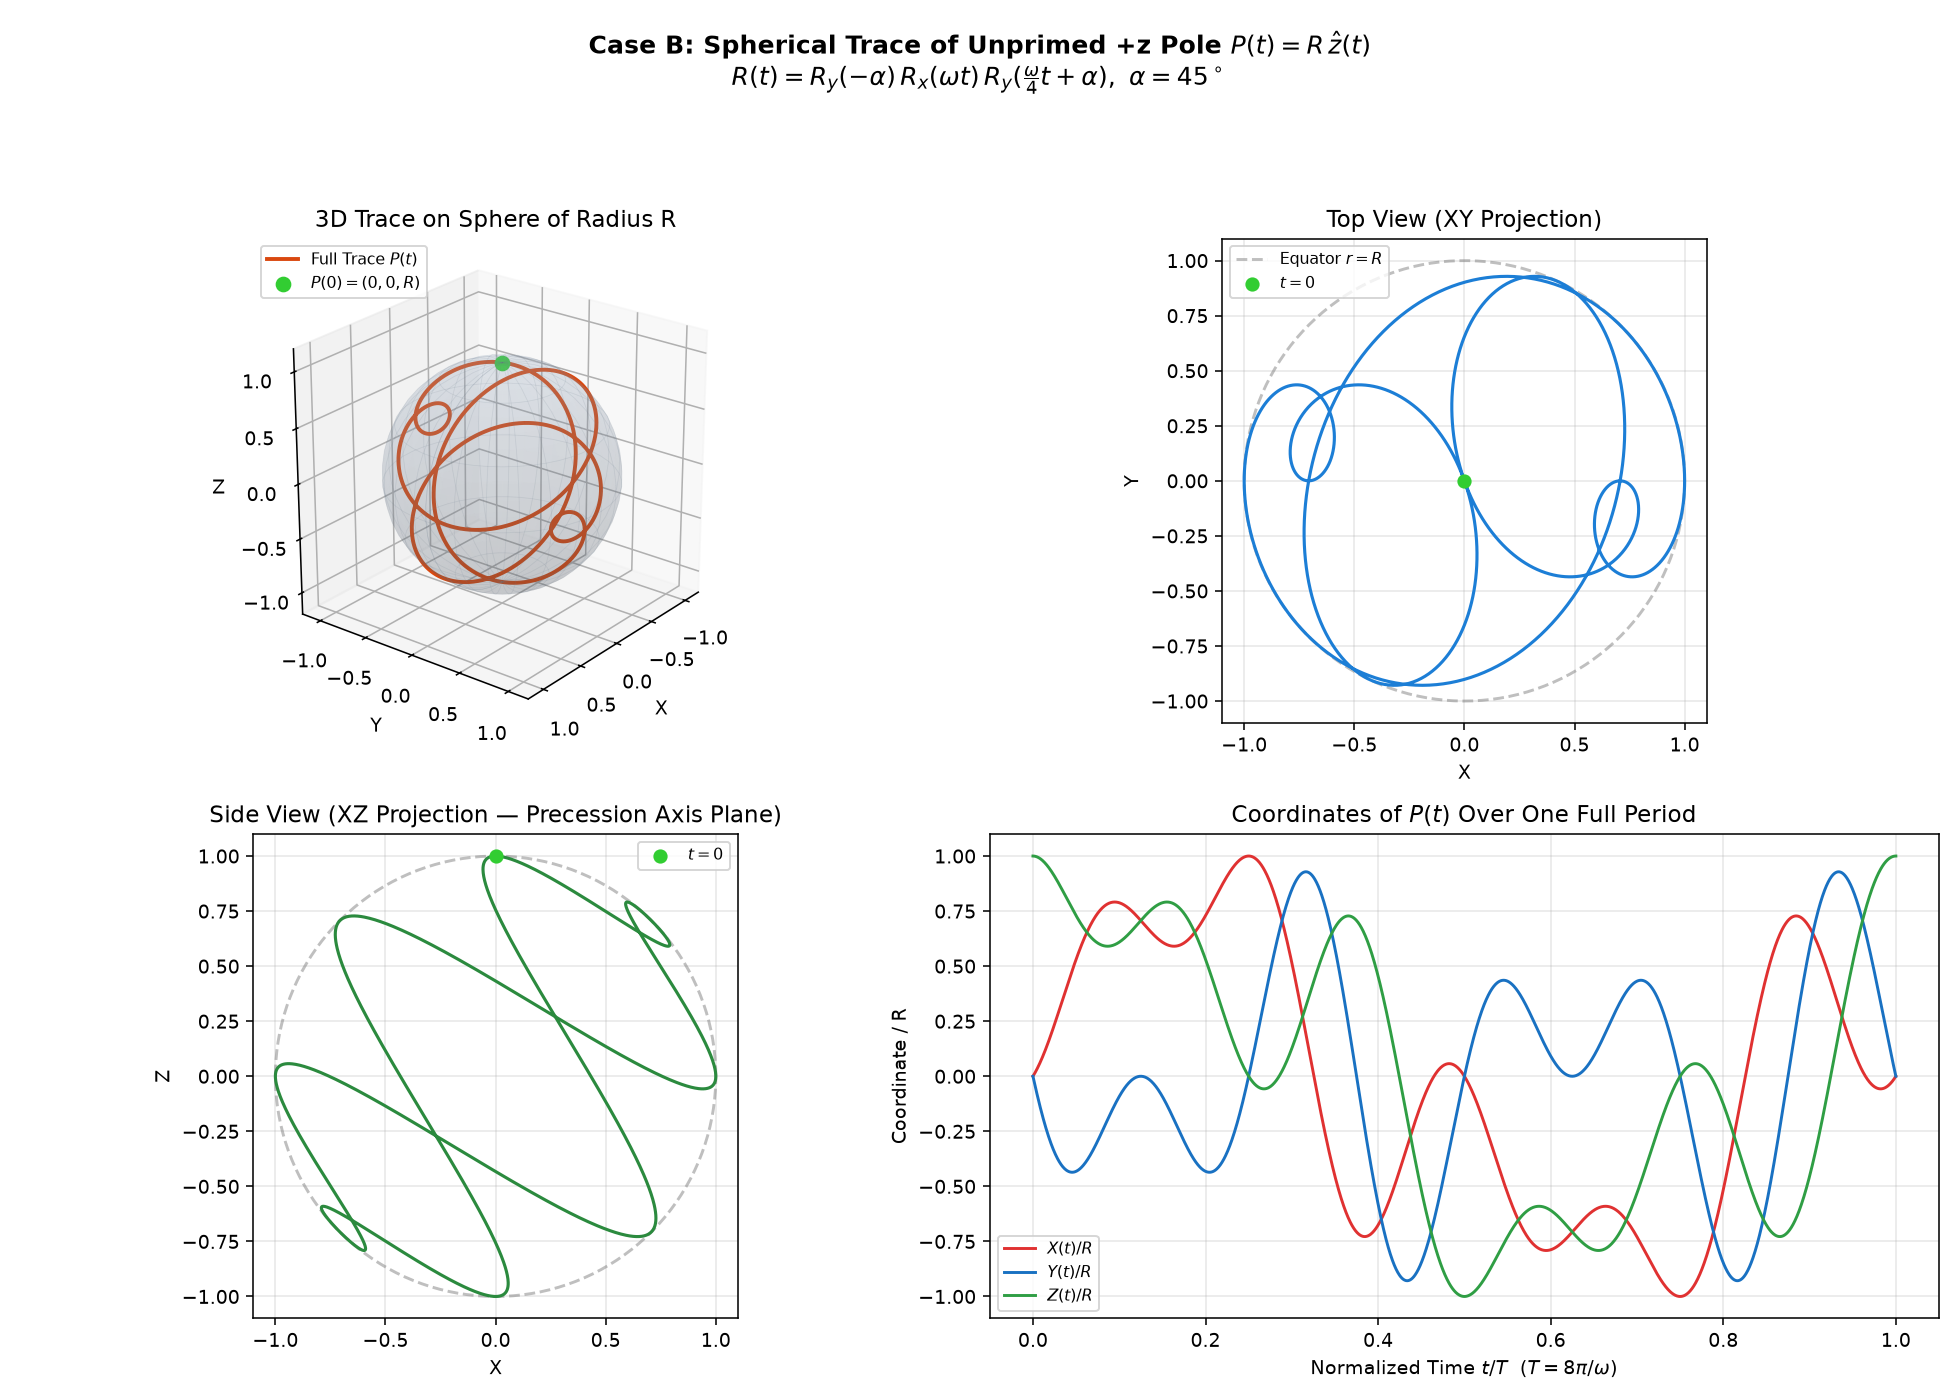
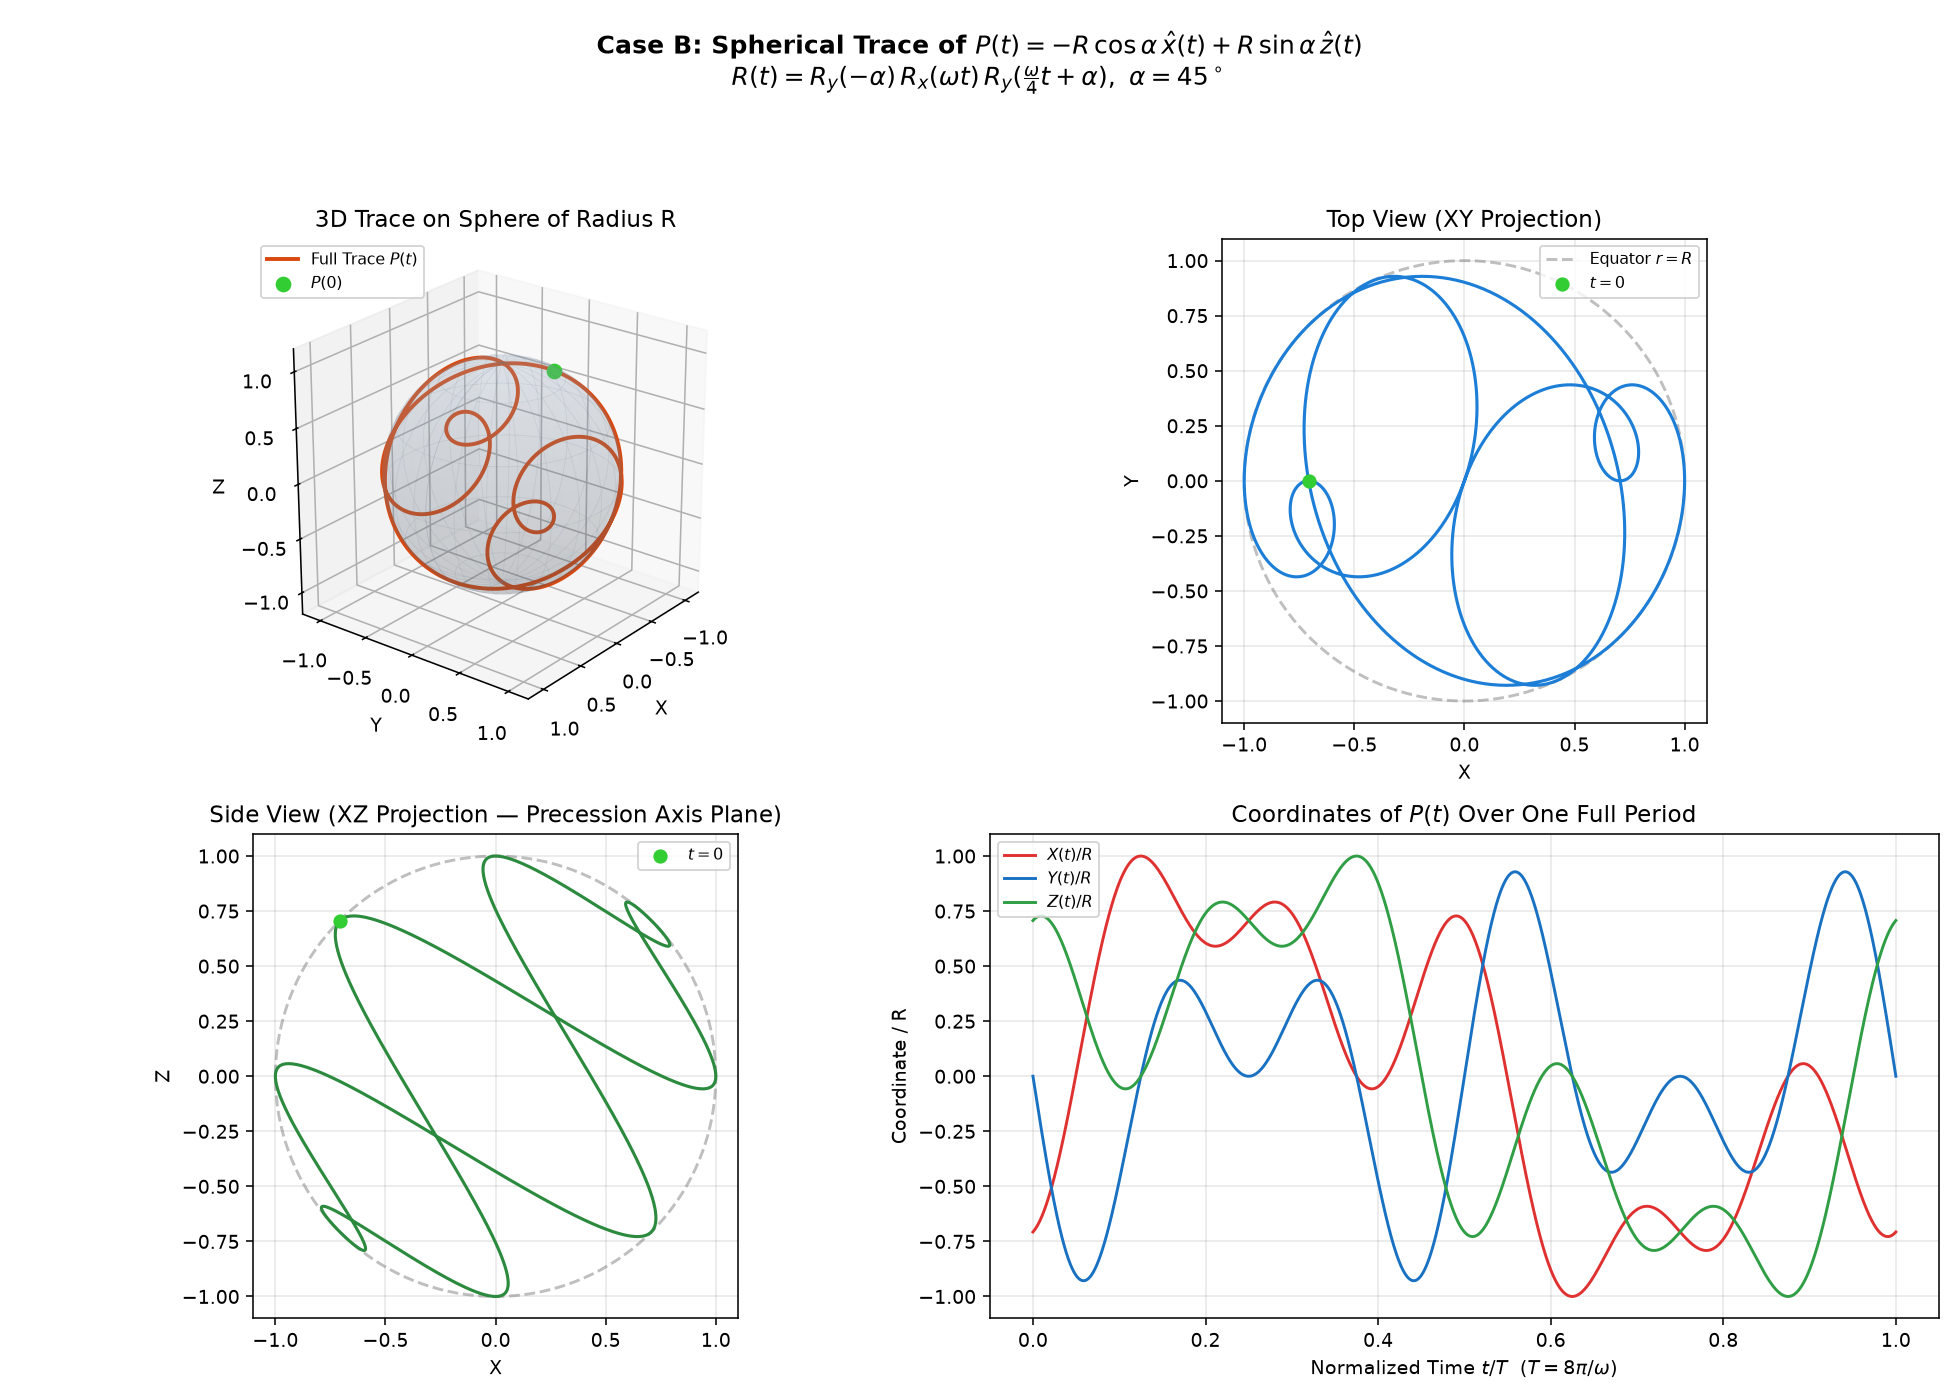
period

diff --git a/case_b_interactive.html b/case_b_interactive.html
@@ -172,7 +172,7 @@
       <label class="legend-item">
         <input type="checkbox" id="showTrace" checked />
         <span class="swatch" style="background:#f97316"></span>
-        <span>+z Pole Trace P(t) = R ẑ(t)</span>
+        <span>Trace P(t) = -R cosα x̂ + R sinα ẑ</span>
       </label>
       <label class="legend-item">
         <input type="checkbox" id="showUnprimed" checked />
@@ -198,11 +198,12 @@
 
     <div class="math-box">
       <strong>Case B Equations:</strong><br/>
+      P(t) = -R cosα x̂(t) + R sinα ẑ(t)<br/>
       R(t) = R_y(-α) R_x(ωt) R_y(ωt/4 + α)<br/>
-      u = ωt/4 + α<br/>
-      X = R [cosα sin(u) - sinα cos(u) cos(ωt)]<br/>
-      Y = -R sin(ωt) cos(u)<br/>
-      Z = R [sinα sin(u) + cosα cos(u) cos(ωt)]
+      For α = 45°:<br/>
+      X = (√2/2)R [sin(ωt/4) - cos(ωt/4)cos(ωt)]<br/>
+      Y = -R sin(ωt) cos(ωt/4)<br/>
+      Z = (√2/2)R [sin(ωt/4) + cos(ωt/4)cos(ωt)]
     </div>
   </aside>
 
@@ -277,6 +278,15 @@
     }
     function colVec(M, j) {
       return [M[0][j], M[1][j], M[2][j]];
+    }
+    function pointP(M, alpha) {
+      const ca = Math.cos(alpha), sa = Math.sin(alpha);
+      const xh = colVec(M, 0), zh = colVec(M, 2);
+      return [
+        -ca * xh[0] + sa * zh[0],
+        -ca * xh[1] + sa * zh[1],
+        -ca * xh[2] + sa * zh[2]
+      ];
     }
     function project(pt) {
       const ca = Math.cos(camAzim), sa = Math.sin(camAzim);
@@ -419,7 +429,7 @@
         for (let i = 0; i <= N; i++) {
           const ti = (i / N) * T;
           const M = caseBMatrix(ti, omega, alpha);
-          fullPts.push(colVec(M, 2));
+          fullPts.push(pointP(M, alpha));
         }
         drawPolyline3D(fullPts, 'rgba(249, 115, 22, 0.24)', 1.5, [3, 3]);
 
@@ -428,7 +438,7 @@
         for (let i = 0; i <= steps; i++) {
           const ti = (i / N) * T;
           const M = caseBMatrix(ti, omega, alpha);
-          histPts.push(colVec(M, 2));
+          histPts.push(pointP(M, alpha));
         }
         drawPolyline3D(histPts, '#f97316', 3.0);
       }
@@ -457,15 +467,16 @@
         drawPoint3D(p2, '#facc15', 5);
       }
 
-      // Draw +z pole vector & point
-      drawPolyline3D([[0,0,0], zHat], '#ef4444', 2.4);
-      drawPoint3D(zHat, '#ef4444', 7);
+      // Draw P(t) vector & point
+      const pNow = pointP(Rmat, alpha);
+      drawPolyline3D([[0,0,0], pNow], '#ef4444', 2.4);
+      drawPoint3D(pNow, '#ef4444', 7);
 
       // Update live stats
-      document.getElementById('xVal').textContent = zHat[0].toFixed(3);
-      document.getElementById('yVal').textContent = zHat[1].toFixed(3);
-      document.getElementById('zVal').textContent = zHat[2].toFixed(3);
-      const norm = Math.hypot(zHat[0], zHat[1], zHat[2]);
+      document.getElementById('xVal').textContent = pNow[0].toFixed(3);
+      document.getElementById('yVal').textContent = pNow[1].toFixed(3);
+      document.getElementById('zVal').textContent = pNow[2].toFixed(3);
+      const norm = Math.hypot(pNow[0], pNow[1], pNow[2]);
       document.getElementById('normVal').textContent = norm.toFixed(3);
       const dot = xHat[0]*xpHat[0] + xHat[1]*xpHat[1] + xHat[2]*xpHat[2];
       const ang = (Math.acos(Math.max(-1, Math.min(1, dot))) * 180) / Math.PI;

diff --git a/animate_case_b.py b/animate_case_b.py
@@ -33,15 +33,21 @@ def case_b_rotation_matrix(t: float, omega: float = 1.0, alpha: float = np.pi / 
 
 def case_b_trace_explicit(t: np.ndarray, R: float = 1.0, omega: float = 1.0, alpha: float = np.pi / 4) -> np.ndarray:
     """
-    Closed-form trajectory of the unprimed +z pole P(t) = R * z_hat(t) for Case B:
-        X(t) = (sqrt(2)/2) R [ sin(omega*t/4 + pi/4) - cos(omega*t/4 + pi/4) cos(omega*t) ]
-        Y(t) = -R sin(omega*t) cos(omega*t/4 + pi/4)
-        Z(t) = (sqrt(2)/2) R [ sin(omega*t/4 + pi/4) + cos(omega*t/4 + pi/4) cos(omega*t) ]
+    Closed-form trajectory of P(t) = -R * cos(alpha) * x_hat(t) + R * sin(alpha) * z_hat(t) for Case B:
+      General alpha:
+        u2 = (omega / 4) * t + 2 * alpha
+        X(t) = R * [ -cos(alpha) * cos(u2) - sin(alpha) * cos(omega*t) * sin(u2) ]
+        Y(t) = -R * sin(omega*t) * sin(u2)
+        Z(t) = R * [ -sin(alpha) * cos(u2) + cos(alpha) * cos(omega*t) * sin(u2) ]
+      For alpha = pi/4 (2*alpha = pi/2):
+        X(t) = (sqrt(2)/2) R [ sin(omega*t/4) - cos(omega*t/4) cos(omega*t) ]
+        Y(t) = -R sin(omega*t) cos(omega*t/4)
+        Z(t) = (sqrt(2)/2) R [ sin(omega*t/4) + cos(omega*t/4) cos(omega*t) ]
     """
-    u = 0.25 * omega * t + alpha
-    X = R * (np.cos(alpha) * np.sin(u) - np.sin(alpha) * np.cos(u) * np.cos(omega * t))
-    Y = -R * np.sin(omega * t) * np.cos(u)
-    Z = R * (np.sin(alpha) * np.sin(u) + np.cos(alpha) * np.cos(u) * np.cos(omega * t))
+    u2 = 0.25 * omega * t + 2.0 * alpha
+    X = R * (-np.cos(alpha) * np.cos(u2) - np.sin(alpha) * np.cos(omega * t) * np.sin(u2))
+    Y = -R * np.sin(omega * t) * np.sin(u2)
+    Z = R * (-np.sin(alpha) * np.cos(u2) + np.cos(alpha) * np.cos(omega * t) * np.sin(u2))
     return np.vstack([X, Y, Z])
 
 
@@ -51,7 +57,7 @@ def generate_overview_figure(R: float = 1.0, omega: float = 1.0, alpha: float = 
     P = case_b_trace_explicit(t_dense, R=R, omega=omega, alpha=alpha)
 
     fig = plt.figure(figsize=(14, 10), dpi=140)
-    fig.suptitle("Case B: Spherical Trace of Unprimed +z Pole $P(t) = R\\,\\hat{z}(t)$\n"
+    fig.suptitle("Case B: Spherical Trace of $P(t) = -R\\,\\cos\\alpha\\,\\hat{x}(t) + R\\,\\sin\\alpha\\,\\hat{z}(t)$\n"
                  "$R(t) = R_y(-\\alpha)\\,R_x(\\omega t)\\,R_y(\\frac{\\omega}{4}t + \\alpha),\\ \\alpha = 45^\\circ$",
                  fontsize=13, fontweight="bold")
 
@@ -66,7 +72,7 @@ def generate_overview_figure(R: float = 1.0, omega: float = 1.0, alpha: float = 
     ax3d.plot_wireframe(xs, ys, zs, color="slategray", alpha=0.15, linewidth=0.4, rstride=2, cstride=4)
 
     ax3d.plot(P[0], P[1], P[2], color="#d9480f", linewidth=2.0, label="Full Trace $P(t)$")
-    ax3d.scatter([P[0, 0]], [P[1, 0]], [P[2, 0]], color="limegreen", s=50, zorder=5, label="$P(0) = (0,0,R)$")
+    ax3d.scatter([P[0, 0]], [P[1, 0]], [P[2, 0]], color="limegreen", s=50, zorder=5, label="$P(0)$")
 
     ax3d.set_xlim([-1.2 * R, 1.2 * R])
     ax3d.set_ylim([-1.2 * R, 1.2 * R])
@@ -169,8 +175,8 @@ def create_animation(
     normal_unprimed_line, = ax.plot([], [], [], color="#1c7ed6", linewidth=1.6, alpha=0.85, label="Unprimed Normal $\\hat{x}(t)$")
     normal_primed_line, = ax.plot([], [], [], color="#2b8a3e", linewidth=1.6, alpha=0.85, label="Primed Normal $\\hat{x}'(t)$")
 
-    trace_line, = ax.plot([], [], [], color="#d9480f", linewidth=2.6, label="Trace of $+z$ Pole $P(t)$")
-    pole_pt, = ax.plot([], [], [], "o", color="#e03131", markersize=8, label="Unprimed $+z$ Pole $P(t)$")
+    trace_line, = ax.plot([], [], [], color="#d9480f", linewidth=2.6, label="Trace of $P(t)$")
+    pole_pt, = ax.plot([], [], [], "o", color="#e03131", markersize=8, label="$P(t) = -R\\cos\\alpha\\,\\hat{x}+R\\sin\\alpha\\,\\hat{z}$")
     pole_vec, = ax.plot([], [], [], color="#e03131", linewidth=1.8)
 
     title_text = ax.set_title("", fontsize=11, fontweight="bold", pad=12)
@@ -231,8 +237,8 @@ def create_animation(
         normal_primed_line.set_data(n_p[0], n_p[1])
         normal_primed_line.set_3d_properties(n_p[2])
 
-        # 6. Pole P(t) = R * z_hat and trace up to current time t
-        P_now = R * z_hat
+        # 6. Point P(t) = -R * cos(alpha) * x_hat + R * sin(alpha) * z_hat and trace up to current time t
+        P_now = R * (-np.cos(alpha) * x_hat + np.sin(alpha) * z_hat)
         pole_pt.set_data([P_now[0]], [P_now[1]])
         pole_pt.set_3d_properties([P_now[2]])
 
@@ -247,7 +253,7 @@ def create_animation(
 
         angle_deg = np.degrees(np.arccos(np.clip(np.dot(x_hat, xp_hat), -1.0, 1.0)))
         title_text.set_text(
-            f"Case B Spherical Trace of Unprimed +z Pole  |  t/T = {t/T:.2f}  |  "
+            f"Case B Spherical Trace of P(t)  |  t/T = {t/T:.2f}  |  "
             f"Inter-plane Angle = {angle_deg:.1f}°"
         )
         return (
@@ -290,11 +296,13 @@ if __name__ == "__main__":
     if not args.show:
         matplotlib.use("Agg")
 
-    # Verify numerical consistency between matrix product R(t)e_z and explicit equations
+    # Verify numerical consistency between matrix product R(t)p_0 and explicit equations
+    alpha_default = np.pi / 4
+    p0_body = np.array([-np.cos(alpha_default), 0.0, np.sin(alpha_default)])
     t_test = np.linspace(0, 8 * np.pi / args.omega, 50)
     for ti in t_test:
-        p_mat = args.R * (case_b_rotation_matrix(ti, omega=args.omega) @ np.array([0.0, 0.0, 1.0]))
-        p_exp = case_b_trace_explicit(ti, R=args.R, omega=args.omega).ravel()
+        p_mat = args.R * (case_b_rotation_matrix(ti, omega=args.omega, alpha=alpha_default) @ p0_body)
+        p_exp = case_b_trace_explicit(ti, R=args.R, omega=args.omega, alpha=alpha_default).ravel()
         assert np.allclose(p_mat, p_exp, atol=1e-12), f"Mismatch at t={ti}: {p_mat} vs {p_exp}"
 
     generate_overview_figure(R=args.R, omega=args.omega, out_path=args.overview)

diff --git a/argon.md b/argon.md
@@ -2,8 +2,8 @@
 Let $\{\hat{E}_x, \hat{E}_y, \hat{E}_z\}$ be the fixed inertial (lab) basis, $\{\hat{x}(t), \hat{y}(t), \hat{z}(t)\}$ be the rotating unprimed orthonormal basis, and $\{\hat{x}'(t), \hat{y}'(t), \hat{z}'(t)\}$ be the rotating primed orthonormal basis, all sharing the origin $O$.
 1. Unprimed circle (lies in the unprimed $yz$-plane, normal $\hat{x}(t)$):
 $$\mathbf{r}(\phi, t) = R\cos\phi\,\hat{y}(t) + R\sin\phi\,\hat{z}(t)$$
-The point to be traced on the sphere of radius $R$ is the $+z$ pole ($\phi = \frac{\pi}{2}$):
-$$\mathbf{P}(t) = R\,\hat{z}(t)$$
+The point to be traced on the sphere of radius $R$ is:
+$$\mathbf{P}(t) = -R\cos\alpha\,\hat{\mathbf{x}}(t) + R\sin\alpha\,\hat{\mathbf{z}}(t)$$
 2. Primed circle (lies in the primed $y'z'$-plane, normal $\hat{x}'(t)$):
 $$\mathbf{r}'(\phi', t) = R\cos\phi'\,\hat{y}'(t) + R\sin\phi'\,\hat{z}'(t)$$
 3. The $z = 0$ Dynamic Plane and Line of Intersection:
@@ -48,12 +48,19 @@ This traces a closed, 4-lobed spherical curve (periodic with period $T = \frac{8
 Case B: Reversed Hierarchy (Unprimed rotation carries the $z=0$ intersection axis $\hat{y}(t)$)
 If instead the unprimed rotation at rate $\omega$ about $\hat{x}'$ carries the intersection vector $\hat{y}(t)$ around $\hat{x}'$, and the $\frac{\omega}{4}$ rotation acts about that moving intersection vector $\hat{y}(t)$:
 $$R(t) = R_y(-\alpha)\, R_x(\omega t)\, R_y\!\left(\frac{\omega}{4}t + \alpha\right)$$
-Applying this to $\mathbf{P}(t) = R\,R(t)\hat{E}_z$ with $\alpha = \frac{\pi}{4}$ gives:
+Applying this to $\mathbf{P}(t) = -R\cos\alpha\,\hat{\mathbf{x}}(t) + R\sin\alpha\,\hat{\mathbf{z}}(t) = R\,R(t)\begin{bmatrix}-\cos\alpha \\ 0 \\ \sin\alpha\end{bmatrix}$:
+Since $R_y\!\left(\frac{\omega}{4}t + \alpha\right)\begin{bmatrix}-\cos\alpha \\ 0 \\ \sin\alpha\end{bmatrix} = \begin{bmatrix}-\cos\!\left(\frac{\omega}{4}t + 2\alpha\right) \\ 0 \\ \sin\!\left(\frac{\omega}{4}t + 2\alpha\right)\end{bmatrix}$, we obtain for general $\alpha$:
+$$\mathbf{P}(t) = R\begin{bmatrix}
+-\cos\alpha\cos\!\left(\frac{\omega}{4}t + 2\alpha\right) - \sin\alpha\cos(\omega t)\sin\!\left(\frac{\omega}{4}t + 2\alpha\right) \\[6pt]
+-\sin(\omega t)\sin\!\left(\frac{\omega}{4}t + 2\alpha\right) \\[6pt]
+-\sin\alpha\cos\!\left(\frac{\omega}{4}t + 2\alpha\right) + \cos\alpha\cos(\omega t)\sin\!\left(\frac{\omega}{4}t + 2\alpha\right)
+\end{bmatrix}$$
+For $\alpha = \frac{\pi}{4}$ ($2\alpha = \frac{\pi}{2}$, so $\cos(\frac{\omega}{4}t + \frac{\pi}{2}) = -\sin(\frac{\omega}{4}t)$ and $\sin(\frac{\omega}{4}t + \frac{\pi}{2}) = \cos(\frac{\omega}{4}t)$), the $\frac{\pi}{4}$ phase shift cancels cleanly:
 $$\boxed{
 \begin{aligned}
-X(t) &= \frac{\sqrt{2}}{2}R\left[\sin\!\left(\frac{\omega}{4}t + \frac{\pi}{4}\right) - \cos\!\left(\frac{\omega}{4}t + \frac{\pi}{4}\right)\cos(\omega t)\right] \\
-Y(t) &= -\sin(\omega t)\cos\!\left(\frac{\omega}{4}t + \frac{\pi}{4}\right) R \\
-Z(t) &= \frac{\sqrt{2}}{2}R\left[\sin\!\left(\frac{\omega}{4}t + \frac{\pi}{4}\right) + \cos\!\left(\frac{\omega}{4}t + \frac{\pi}{4}\right)\cos(\omega t)\right]
+X(t) &= \frac{\sqrt{2}}{2}R\left[\sin\!\left(\frac{\omega}{4}t\right) - \cos\!\left(\frac{\omega}{4}t\right)\cos(\omega t)\right] \\
+Y(t) &= -R\sin(\omega t)\cos\!\left(\frac{\omega}{4}t\right) \\
+Z(t) &= \frac{\sqrt{2}}{2}R\left[\sin\!\left(\frac{\omega}{4}t\right) + \cos\!\left(\frac{\omega}{4}t\right)\cos(\omega t)\right]
 \end{aligned}
 }$$
 Note on Mutual Body-Locked Instantaneous Addition ($\boldsymbol{\Omega} = \omega\hat{x}'(t) + \frac{\omega}{4}\hat{y}(t)$)

diff --git a/prompt_2.md b/prompt_2.md
@@ -1,0 +1,1 @@
+evaluate and change the trace from $\mathbf{P}(t) = R\,\hat{z}(t)$ to $\mathbf{P}(t) = -R\,\cos(\alpha)\,\hat{\mathbf{x}}(t) + R\,\sin(\alpha)\,\hat{\mathbf{z}}(t)$
